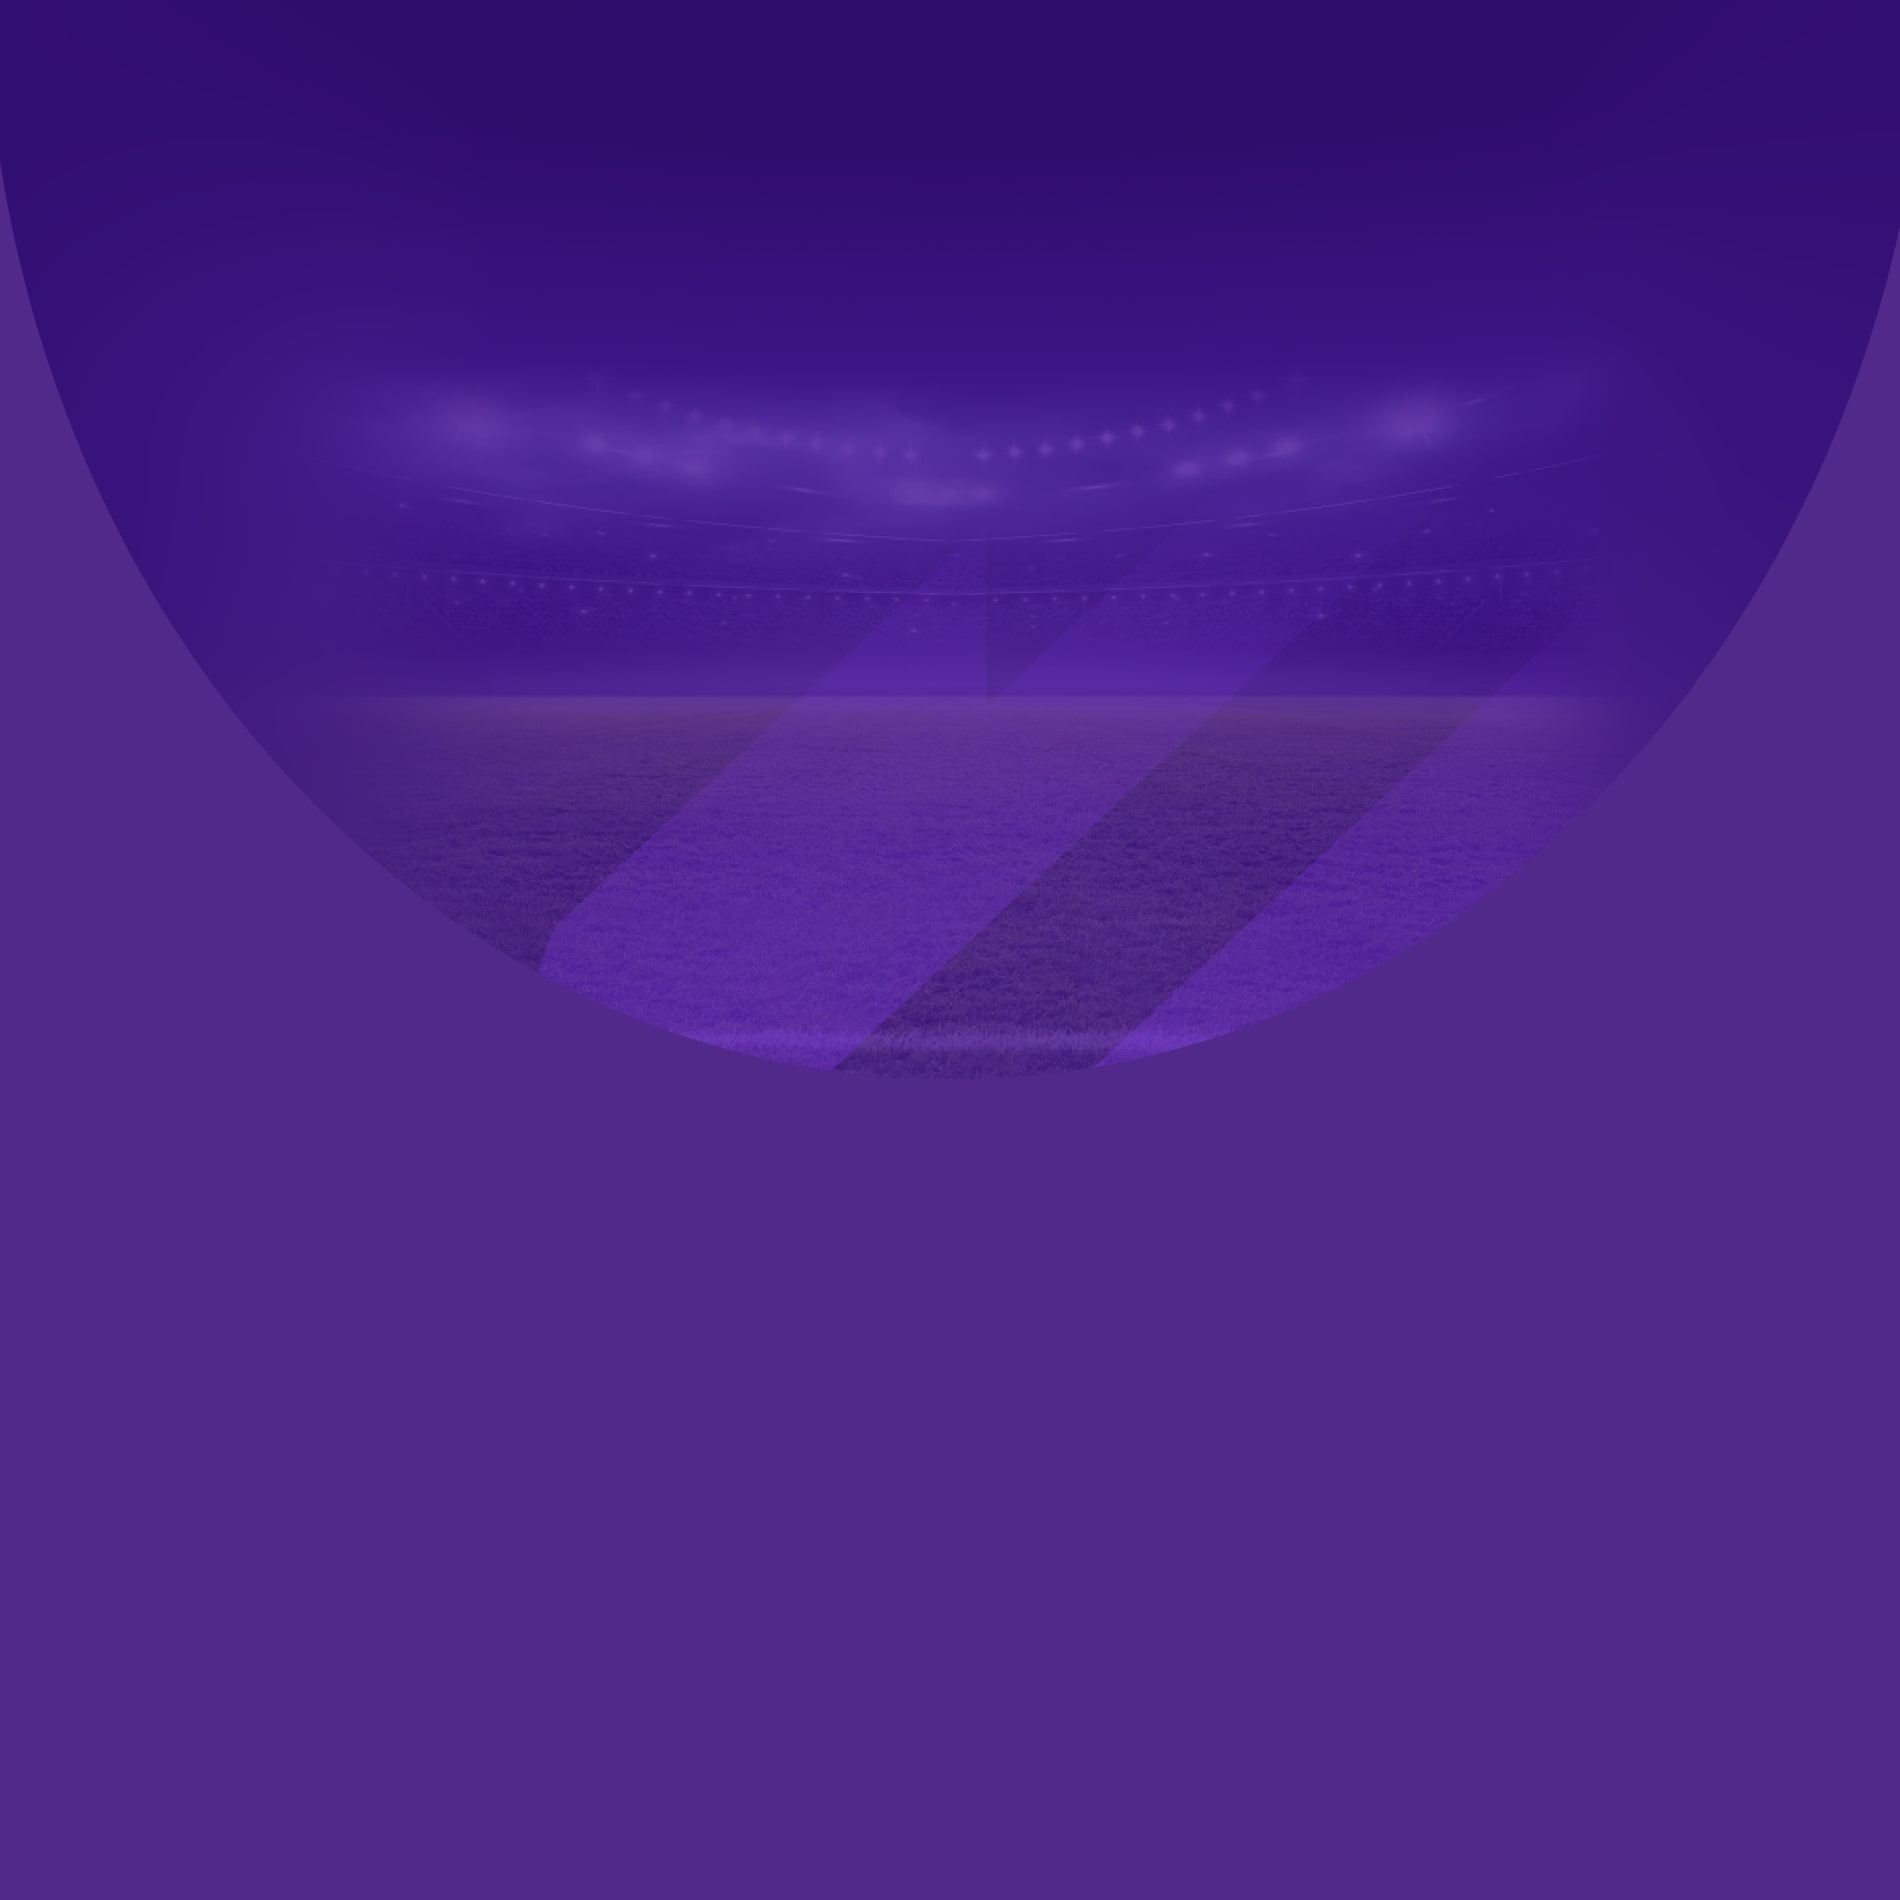
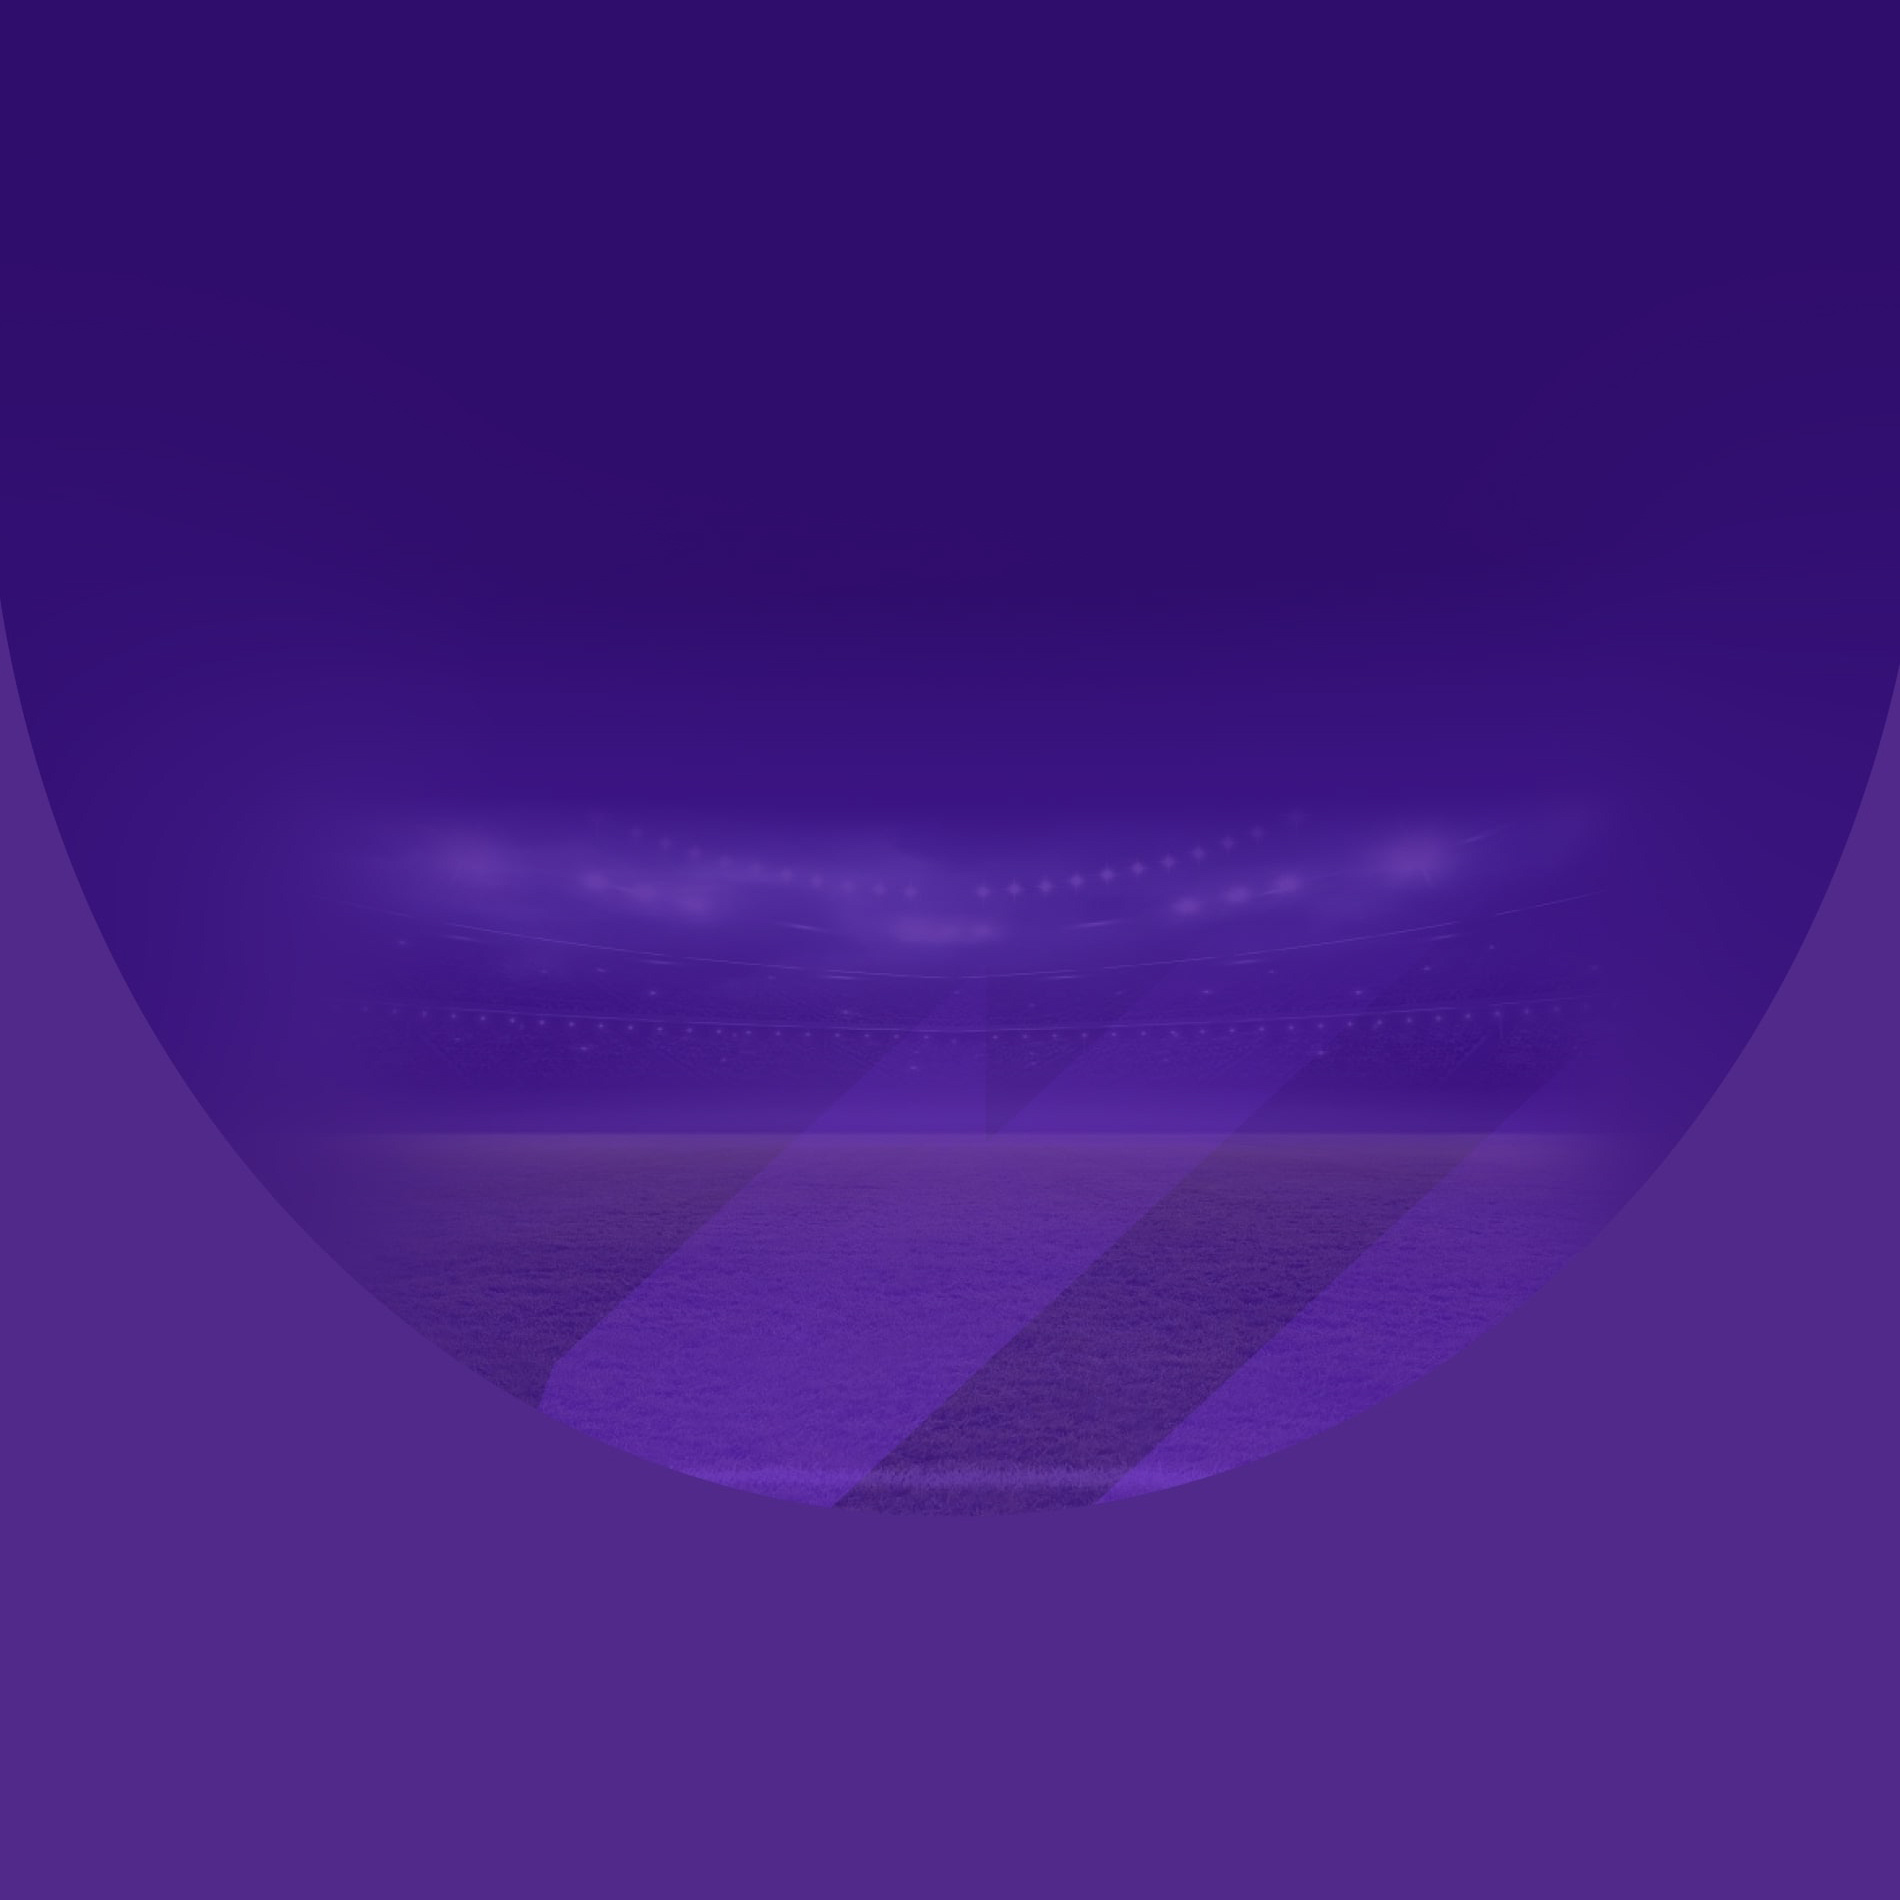
03.05

diff --git a/quiz.html b/quiz.html
@@ -1,0 +1,58 @@
+<!DOCTYPE html>
+<html lang="ru">
+<head>
+    <meta charset="UTF-8">
+    <meta name="viewport" content="width=device-width, initial-scale=1.0">
+    <title>FootBot Quiz</title>
+
+    <link rel="preconnect" href="https://fonts.googleapis.com">
+	<link rel="preconnect" href="https://fonts.gstatic.com" crossorigin>
+	<link href="https://fonts.googleapis.com/css2?family=Bebas+Neue&family=Inter:wght@100..900&family=Roboto:ital,wght@0,100;0,300;0,400;0,500;0,700;0,900;1,100;1,300;1,400;1,500;1,700;1,900&family=Rubik+Mono+One&display=swap" rel="stylesheet">
+	<link href="https://fonts.googleapis.com/css2?family=Roboto+Condensed:ital,wght@0,100..900;1,100..900&display=swap" rel="stylesheet">
+
+    <link rel="stylesheet" href="styles/normalize.min.css">
+
+    <link rel="stylesheet" href="styles/style.css" />
+	<link rel="stylesheet" href="styles/create_club.css" />
+</head>
+<body>
+    <div class="container">
+        <div class="timer">90</div>
+        <div class="match">36-й тур
+            <div class="teams">
+
+                <div class="logo_team_1"></div>
+                <div class="blank_team_1">
+    
+                </div>
+                <div class="blank_draw">
+    
+                </div>
+                <div class="blank_team_2">
+    
+                </div>
+                <div class="logo_team_2"></div>
+
+            </div>
+            <div class="strip_match"></div>
+        </div>
+        <div class="blank_question">
+            <div class="foto_question"></div>
+            <div class="text_question"></div>
+            <div class="answers">
+                <div class="answer">вариант ответа 1</div>
+                <div class="answer">вариант ответа 2</div>
+                <div class="answer">вариант ответа 3</div>
+                <div class="answer">вариант ответа 4</div>
+            </div>
+        </div>
+        <div class="counter">
+            <div class="round_1"></div>
+            <div class="round_2"></div>
+            <div class="round_3"></div>
+            <div class="round_4"></div>
+            <div class="round_5"></div>
+        </div>
+    </div>
+</body>
+</html>

diff --git a/styles/create_club.css b/styles/create_club.css
@@ -1,11 +1,14 @@
 .background {
-    background-image: url(../images/fon_create_club.jpg);
-    background-color: #51298A;
-    background-position: center 0px;
-    background-repeat: no-repeat;
-    background-size: 200%;
-    padding-top: 130px;
+    padding-top: 30px;
+
     width: 100vw;
+
+    background-image: url(../images/fon_create_club.jpg);
+    background-attachment: fixed;
+    background-position: center top -57vw;
+    background-color: #51298A;
+    background-repeat: no-repeat;
+    background-size: 160%;
 }
 
 .logo {
@@ -39,7 +42,24 @@
     flex-direction: row;
 }
 
+.block_input::after {
+    content: "";
+    display: block;
+    width: 25px;
+    height: 25px;
+    margin-top: 5px;
+    background-image: url(../images/pen_white.webp);
+    background-position: center;
+    background-repeat: no-repeat;
+    background-size: 100%;
+}
+
+
 .input_ {
+    display: flex;
+    align-items: center;
+    gap: 4px;
+
     margin-top: 10px;
     margin-left: 12%;
 
@@ -57,46 +77,6 @@
     border: none; /* убираем все границы */
     border-bottom: 1px solid white; /* нижняя белая граница */
     outline: none; /* убираем обводку при фокусе */
-}
-
-.pen {
-    background-image: url(../images/pen_white.webp);
-    background-position: center;
-    background-size: 100%;
-    background-repeat: no-repeat;
-    margin-top: 7px;
-    min-width: 25px;
-    min-height: 25px;
-}
-
-.block-choose {
-    margin: auto;
-    margin-top: 15px;
-
-    background-color: #FFFFFF;
-
-    width: 100%;
-    height: 150px;
-    border-radius: 18px;
-
-    width: 100%;
-    height: auto;
-    padding-bottom: 7px;
-    margin-bottom: 10px;
-}
-
-.text-choose {
-    padding: 8px;
-
-    font-family: "Roboto Condensed", sans-serif;
-    font-style: italic;
-    font-weight: 900;
-    font-size: 20px;
-    line-height: 28px;
-    /* identical to box height */
-    text-align: center;
-
-    color: #393939;
 }
 
 .done {

diff --git a/styles/style.css b/styles/style.css
@@ -18,6 +18,7 @@ body {
     display: flex;
     align-items: center;
     justify-content: center;
+    overflow-y: hidden;
 
     -webkit-user-select: none;
     -khtml-user-select: none;
@@ -32,19 +33,31 @@ a {
 }
 
 .container {
+    box-sizing: border-box;
+
+    margin: 0 auto;
+
+    height: 100vh;
     width: 100%;
     max-width: var(--w-container);
-    margin: 0 auto;
-    box-sizing: border-box;
     
-    height: 100vh;
 }
 
 .btn_standart {
     display: block;
+
+    margin: auto;
+    margin-top: 10px;
+    margin-bottom: 10px;
+    padding: 15px 50px;
     
     width: 100%;
     max-width: 190px;
+
+    background-color: #FFFFFF;
+    border: 1.55391px solid #EFEFEF;
+    box-shadow: 0px 10px 5px -5px rgba(0, 0, 0, 0.1);
+    border-radius: 20px;
 
     font-family: 'Roboto';
     font-style: normal;
@@ -53,16 +66,28 @@ a {
     text-align: center;
 
     color: #393939;
+}
 
+
+.block-choose {
+    margin: auto;
+    margin-top: 15px;
+    margin-bottom: 10px;
+    
+    padding: 8px;
+
+    width: 100%;
+    height: auto;
 
     background-color: #FFFFFF;
-    border: 1.55391px solid #EFEFEF;
-    box-shadow: 0px 10px 5px -5px rgba(0, 0, 0, 0.1);
-    border-radius: 20px;
+    box-shadow: 0px 5px 10px -5px rgba(0, 0, 0, 0.9);
+    border-radius: 18px;
 
+    font-family: "Roboto Condensed", sans-serif;
+    font-style: italic;
+    font-weight: 900;
+    font-size: 20px;
     text-align: center;
-    padding: 15px 50px;
 
-    margin: auto;
-    margin-bottom: 10px;
+    color: #393939;
 }

diff --git a/create_club.html b/create_club.html
@@ -3,7 +3,7 @@
 <head>
     <meta charset="UTF-8">
     <meta name="viewport" content="width=device-width, initial-scale=1.0">
-    <title>Create club</title>
+    <title>FootBot Quiz</title>
 
     <link rel="preconnect" href="https://fonts.googleapis.com">
 	<link rel="preconnect" href="https://fonts.gstatic.com" crossorigin>
@@ -22,10 +22,8 @@
             <div class="text-input">Введи название клуба:</div>
             <div class="block_input">
                 <input type="text" class="input_" maxlength="20">
-                <div class="pen"></div>
             </div>
-            <div class="block-choose">
-                <div class="text-choose">Выбери эмблему:</div>
+            <div class="block-choose">Выбери эмблему:
                 <a href="" class="btn_standart">Существующую</a>
                 <a href="" class="btn_standart">Создать свою</a>
             </div>
